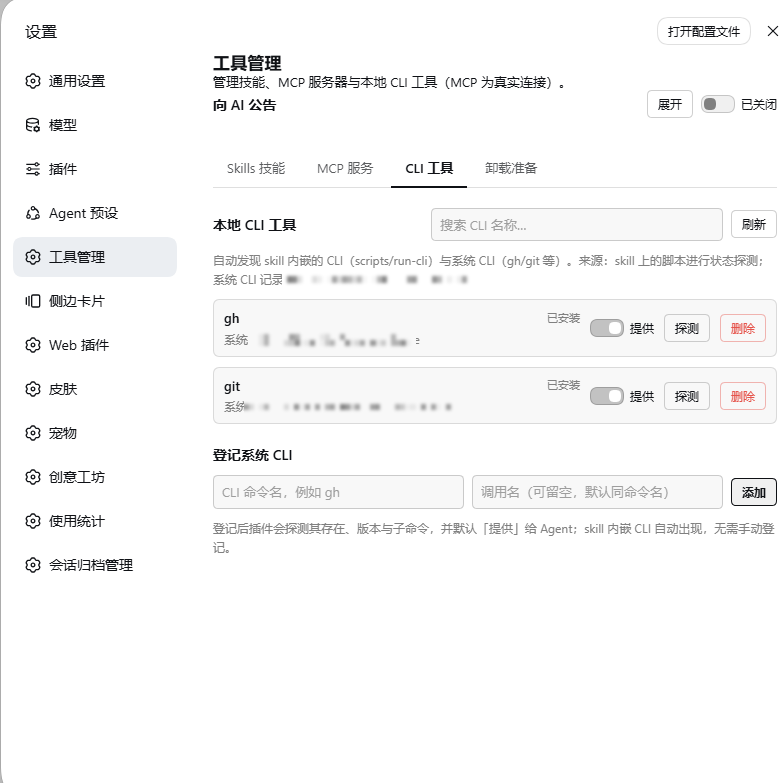
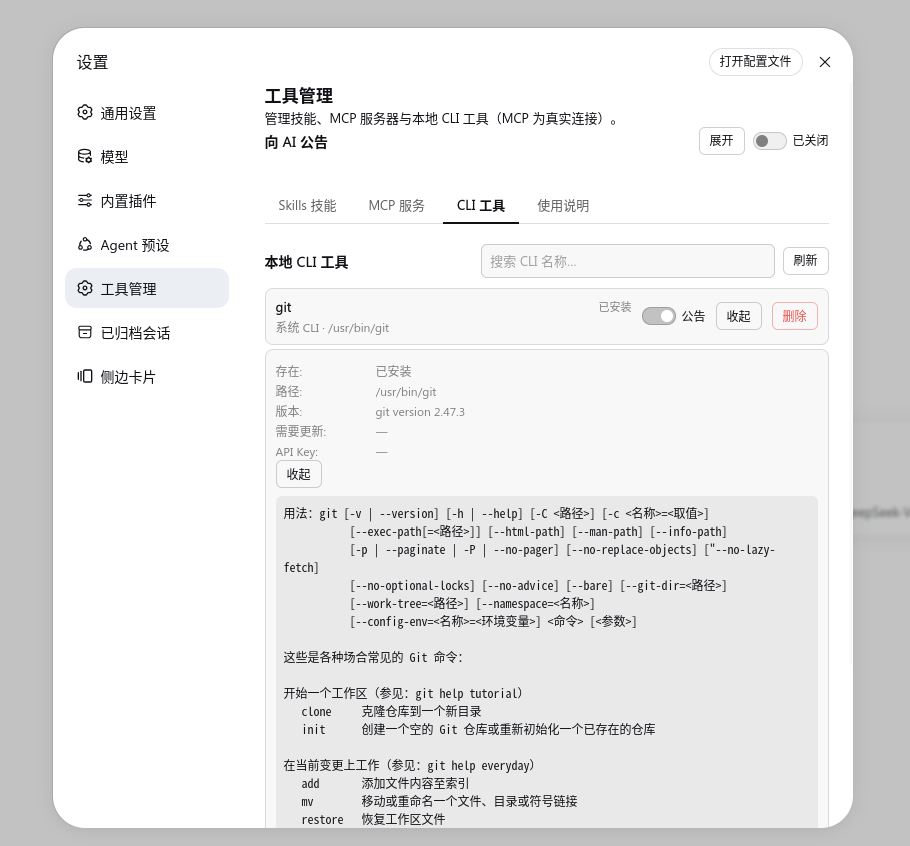
docs(readme): product-page style redesign with fresh redacted screenshots
- centered hero + badge row + anchor nav; two-column screenshot gallery
  (session panel / skills / MCP / CLI / guide) and announce strip
- new capability comparison table (native dsh web vs plugin)
- repository layout folded into <details>; zh/en kept in sync
- screenshots re-shot on 0.1.4: personal skill names, descriptions and
  MCP server names/URLs redacted; generic addresses left visible
- dev section updated to 13 files / 193 tests; install status adds
  0.1.6-alpha.2 as fully tested

Changed region(s): [[0.0, 0.0, 1.0, 1.0], [0.7041, 0.4598, 0.8878, 0.5211]]

diff --git a/README.zh.md b/README.zh.md
@@ -2,8 +2,13 @@
   🌏 <b>中文</b> · <a href="./README.md">English</a>
 </div>
 
+<h1 align="center">三合一工具台 · dsh-s-m-c-center</h1>
+
 <div align="center">
-  <b style="font-size: 1.15em;">一个 DeepSeek Harness (DSH) Web 插件：在同一个设置页里管理「技能 + MCP + CLI」三类 agent 工具，并让每个对话按需注入自己的技能。</b><br /><br />
+  <b>把智能体的「技能 / MCP / CLI」三类工具收进 DeepSeek Harness 的同一张设置页，<br />并让每个对话按需注入自己的技能。</b>
+  <br /><br />
+  <i>技能联接 · 会话注入 · 影子目录 · MCP 真实连接 · CLI 探针 · 中英双语 · 零源码侵入</i>
+  <br /><br />
   <a href="https://github.com/YpipaQ/dsh-s-m-c-center/releases"><img alt="release" src="https://img.shields.io/github/package-json/v/YpipaQ/dsh-s-m-c-center?style=flat-square&amp;label=release&amp;color=fe7d37&amp;labelColor=555" /></a>
   <a href="https://github.com/YpipaQ/dsh-s-m-c-center/stargazers"><img alt="stars" src="https://img.shields.io/github/stars/YpipaQ/dsh-s-m-c-center?style=flat-square&amp;label=stars&amp;color=f0a01e&amp;labelColor=555" /></a>
   <a href="https://github.com/YpipaQ/dsh-s-m-c-center/forks"><img alt="forks" src="https://img.shields.io/github/forks/YpipaQ/dsh-s-m-c-center?style=flat-square&amp;label=forks&amp;color=2b8df5&amp;labelColor=555" /></a>
@@ -12,20 +17,34 @@
   <a href="./LICENSE"><img alt="license: MIT" src="https://img.shields.io/badge/license-MIT-blue.svg?style=flat-square&amp;labelColor=555" /></a>
   <a href="./package.json"><img alt="dsh" src="https://img.shields.io/badge/dsh-%3E%3D0.1.2--alpha.2-4d6bfe?style=flat-square&amp;labelColor=555" /></a>
   <a href="./package.json"><img alt="node" src="https://img.shields.io/node/v/dsh-s-m-c-center?style=flat-square&amp;labelColor=555" /></a>
+  <br /><br />
+  <a href="#-它是什么">它是什么</a> · <a href="#-界面一览">界面一览</a> · <a href="#-功能亮点">功能亮点</a> · <a href="#-两条通道联接-vs-注入">两条通道</a> · <a href="#-交给-agent-的两个工具">Agent 工具</a> · <a href="#-架构">架构</a> · <a href="#-安装">安装</a> · <a href="#-配置">配置</a> · <a href="#-权限与依赖声明">权限声明</a> · <a href="#-仓库结构">仓库结构</a> · <a href="#-开发">开发</a> · <a href="#-许可">许可</a>
+</div>
+
+<br />
+
+<div align="center">
+  <a href="https://raw.githubusercontent.com/YpipaQ/dsh-s-m-c-center/main/docs/shots/shot-skills.png"><img src="https://raw.githubusercontent.com/YpipaQ/dsh-s-m-c-center/main/docs/shots/shot-skills.png" alt="工具管理设置页：Skills 技能页签" width="86%" /></a>
+  <p><i>「设置 → Web UI 插件 → 工具管理」：统一储存库、技能联接与「会话默认」，三个页签分管三类工具。</i></p>
 </div>
 
 > [!NOTE]
 > **0.1.2 起技能目录由本插件接管（影子目录）**：目录成员严格跟随会话的注入选择；目录变化只发一条替换帧，不再每步追加；容器目录（只有 DESCRIPTION.md）可注入、可加载。已经过三轮外部实测（16/16 通过）。
 
-# 三合一工具台 · dsh-s-m-c-center
-
-> 中文名：**三合一工具台** ｜ 界面入口：「Web UI 插件 → 工具管理」 ｜ 别名：工具管理、工具中心、技能管理、MCP 服务器管理、CLI 工具管理、Skills / MCP / CLI 管理器
-
-> 一个自包含的 DSH Web 插件：在设置页新增一个一级页面，统一管理 agent 的**三类工具**（技能 / MCP 服务器 / 本地 CLI），并新增一层**按对话生效的技能注入**；另有一个使用说明页，讲清三者各自的工作方式，并在最下方负责把它们干净地还回去。
->
-> 仅通过 profile bundle patch + 包安装挂载 —— **不改任何 DeepSeek Harness 源码**。
-
 ## ✨ 它是什么
+
+> 中文别名：**三合一工具台** ｜ 别名：工具管理、工具中心、技能管理、MCP 服务器管理、CLI 工具管理、Skills / MCP / CLI 管理器
+
+一个自包含的 DSH Web 插件：在设置页新增一个一级页面，统一管理 agent 的**三类工具**（技能 / MCP 服务器 / 本地 CLI），并新增一层**按对话生效的技能注入**；另有一个使用说明页，讲清三者各自的工作方式，并在最下方负责把它们干净地还回去。
+
+| 能力 | 原生 dsh web | 装上本插件后 |
+|---|---|---|
+| 技能浏览 / 启停 | 到技能目录手动增删 | 设置页一键联接 / 断开，正本统一入库，`SKILL.md` 一字不改 |
+| 会话级技能组合 | — | 会话默认 + 侧边栏小窗 + `skill_select`，每个对话只存与默认的差异 |
+| 技能目录（AI 视角） | 静态目录扫描 | **影子目录**：严格跟随会话选区，附 `smc-skill-index` 索引行 |
+| MCP 服务器 | 手编 `mcp.json` | 表单 / JSON 新建 + 一次性测试连接 + 激活 / 归档开关 |
+| 本地 CLI | — | 自动发现 skill 内嵌 CLI，登记系统 CLI，探测安装 / 版本 / 子命令 / API-Key |
+| 侵入性 | — | **零源码改动**：一个 npm 包 + 一行 profile bundle patch |
 
 | 页签 | 管理 | 底层 |
 |---|---|---|
@@ -36,11 +55,22 @@
 
 > 完整说明见 [`docs/功能介绍.md`](./docs/功能介绍.md)、[`docs/架构.md`](./docs/架构.md)。
 
-## 💡 功能
+## 📷 界面一览
+
+| | |
+|---|---|
+| **会话技能小窗** ｜ 侧边栏随手调整本对话的注入 | **MCP 服务** ｜ 真实连接，激活 / 归档一键切换 |
+| <a href="https://raw.githubusercontent.com/YpipaQ/dsh-s-m-c-center/main/docs/shots/shot-session.png"><img src="https://raw.githubusercontent.com/YpipaQ/dsh-s-m-c-center/main/docs/shots/shot-session.png" alt="侧边栏「会话技能」小窗" width="98%" /></a> | <a href="https://raw.githubusercontent.com/YpipaQ/dsh-s-m-c-center/main/docs/shots/shot-mcp.png"><img src="https://raw.githubusercontent.com/YpipaQ/dsh-s-m-c-center/main/docs/shots/shot-mcp.png" alt="MCP 服务页签" width="98%" /></a> |
+| **CLI 工具** ｜ 发现 / 探测 / 登记本地 CLI | **使用说明** ｜ 三类工具讲解 + 卸载撤退口 |
+| <a href="https://raw.githubusercontent.com/YpipaQ/dsh-s-m-c-center/main/docs/shots/shot-cli.png"><img src="https://raw.githubusercontent.com/YpipaQ/dsh-s-m-c-center/main/docs/shots/shot-cli.png" alt="CLI 工具页签" width="98%" /></a> | <a href="https://raw.githubusercontent.com/YpipaQ/dsh-s-m-c-center/main/docs/shots/shot-guide.png"><img src="https://raw.githubusercontent.com/YpipaQ/dsh-s-m-c-center/main/docs/shots/shot-guide.png" alt="使用说明页签" width="98%" /></a> |
+
+<p align="center"><i>截图中的技能名、描述与 MCP 服务器信息已打码。</i></p>
+
+## 💡 功能亮点
 
 - **技能**：按项目级 / 用户级与来源分组（`.dsh/skills`、`.agents/skills`、`~/.dsh/skills`、`~/.agents/skills`）。用户级技能迁入**统一储存库** `~/.dsh/S-M-C/skills`，「启用」= 在技能根目录注入目录联接，「不启用」= 移除联接（`SKILL.md` 一字不改）；项目级技能就地管理，仍用前言开关。删除为两步确认的物理删除，且**只删储存库里的正本**（见下）。点开可看详情（description / whenToUse / 正文）；支持从任意目录扫描导入。
 - **会话默认与按对话注入**：`会话默认` 是新对话的起始技能；每个对话还能有自己的差异（关掉某个、追加某个）。对话里的 agent 可以自己开关（写入该对话自己的配置），侧边栏还有一个「会话技能」小窗供你随时手动调整——两处列表都只列**已联接**的技能。详见下一节。
-- **MCP**：分「管理 / 新建」两个子页——管理页一台服务器一个 **激活 / 归档** 开关（外加删除），新建页提供表单或 JSON 编辑，保存前可**测试连接**（一次性真实探测）；**激活 / 归档**真实连接 / 断开并注册 `mcp__<server>__<tool>` 工具；实时状态（连接中 / 运行中 / 失败 / 已停止）。
+- **MCP**：分「管理 / 新建」两个子页——管理页一台服务器一个 **激活 / 归档** 开关（外加删除），新建页提供表单或 JSON 编辑，保存前可**测试连接**（一次性真实探测）；激活 / 归档真实连接 / 断开并注册 `mcp__<server>__<tool>` 工具；实时状态（连接中 / 运行中 / 失败 / 已停止）。
 - **CLI**：自动发现 skill 包装的 CLI（`scripts/run-cli.*` / `cli-state.*`），并登记系统 CLI（`gh`、`git` …，存于 `S-M-C/cli.json`）。每条都会探测：是否安装 / 版本 / 是否需更新 / API-Key 状态 / 子命令，并在行上标出来源与位置。**公告 / 隐藏**开关只决定是否把这个 CLI 写进给 AI 的公告（插件无法启停系统装的 CLI，因此默认隐藏）。
 - **使用说明**：按三类讲清工作方式，最下方是卸载前的总撤退口。「撤销迁移」把储存库技能移回原始位置；储存库空着时同一按钮变为绿色的「迁移」，**双向可逆**；「MCP 全部注入」把归档服务器一次性移回并重连；页面同时列出卸载后需手动删除的目录与配置块。
 - **界面**：全量文案 zh / en 双语（各 200 键，英文环境零中文）；破坏性操作两步确认，且点开别处即复位。
@@ -56,17 +86,6 @@
 
 **会话选择的存储方式**：文件里存的是**与默认的差异**（`overrides: { on, off }`），有效集合 = `默认 ∪ on \ off`。这样改了默认，未单独配置过的对话立刻跟着变；而你在某个对话里手动关掉的技能不会被默认拉回来。
 
-## 📷 界面预览
-
-<div align="center">
-  <img src="https://raw.githubusercontent.com/YpipaQ/dsh-s-m-c-center/main/docs/shots/shot-skills.png" alt="Skills 技能" width="49%" />
-  <img src="https://raw.githubusercontent.com/YpipaQ/dsh-s-m-c-center/main/docs/shots/shot-mcp.png" alt="MCP 服务" width="49%" />
-  <br />
-  <img src="https://raw.githubusercontent.com/YpipaQ/dsh-s-m-c-center/main/docs/shots/shot-cli.png" alt="CLI 工具" width="49%" />
-  <img src="https://raw.githubusercontent.com/YpipaQ/dsh-s-m-c-center/main/docs/shots/shot-guide.png" alt="使用说明" width="49%" />
-</div>
-<p align="center"><i>四个页签：技能（统一储存库 + 联接 + 会话默认）、MCP（真实连接）、CLI（发现 / 探测 / 登记）、使用说明。个人路径已打码。</i></p>
-
 ## 🤖 交给 agent 的两个工具
 
 | 工具 | 作用 |
@@ -74,7 +93,14 @@
 | `skill_select` | 为**本对话**启用 / 停用某个技能；写入该对话自己的差异并立即生效。接受所有已联接的条目——容器目录同样可以（其 DESCRIPTION.md 即可加载的正文）。 |
 | `skill_query` | **只读**查询本工作区可见的技能清单（名称 / 描述 / 分组 / 是否已联接 / 本对话是否已注入），调用时动态计算，可关键词与分组过滤。 |
 
-此外，「使用说明」页可开启**向 AI 公告**：把插件能力与三类工具的现状写进每个 agent 的系统提示。技能目录也由本插件生成（影子目录）：目录里会多出一行 `smc-skill-index` —— **索引技能**，加载它即可拿到本工作区的完整技能列表（格式与目录层一致）；未注入的技能不能加载（提示 "not enabled in this conversation"）；`/技能名` 手势不受影响。
+技能目录也由本插件生成（**影子目录**）：目录里会多出一行 `smc-skill-index` —— **索引技能**，加载它即可拿到本工作区的完整技能列表（格式与目录层一致）；未注入的技能不能加载（提示 "not enabled in this conversation"）；`/技能名` 手势不受影响。
+
+此外，「使用说明」页可开启**向 AI 公告**：把插件能力与三类工具的现状写进每个 agent 的系统提示——
+
+<div align="center">
+  <a href="https://raw.githubusercontent.com/YpipaQ/dsh-s-m-c-center/main/docs/shots/shot-announce.png"><img src="https://raw.githubusercontent.com/YpipaQ/dsh-s-m-c-center/main/docs/shots/shot-announce.png" alt="向 AI 公告" width="72%" /></a>
+  <p><i>向 AI 公告：展开后声明插件能力；设置持久化在 <code>dsh-s-m-c-center</code> 命名空间，切换即时生效。</i></p>
+</div>
 
 ## 🏗 架构
 
@@ -102,7 +128,7 @@
 ## 🚀 安装
 
 > **环境要求**：DeepSeek Harness **`>= 0.1.2-alpha.2`**（`@deepseek-ai/*` 统一发版）；Node `^22.19.0 || >=24`。
-> 现状：**`0.1.6-alpha.1` 与 `0.1.5-rc.2` 上完整实测**；`0.1.2-alpha.2` 起所用 API 已逐一核对存在且签名一致。
+> 现状：**`0.1.6-alpha.1`、`0.1.6-alpha.2` 与 `0.1.5-rc.2` 上完整实测**；`0.1.2-alpha.2` 起所用 API 已逐一核对存在且签名一致。
 
 > **必须按普通包安装 —— 切勿 junction 链接。** junction 会让依赖（`schemastery` / `react` 等）无法向上解析，并导致包名与 `cordis.patch.yml` 不一致；两者都会让 DSH 启动失败。
 
@@ -159,9 +185,10 @@ dsh-s-m-c-center:
 
 **已知风险**：技能删除是物理删除、不可恢复（且**只删储存库正本**：`native` 技能需先「迁移入库」，`registered` 用「取消登记」，「删除联接」只解联、从不删目标）；MCP 凭证明文保存；技能启用 / 禁用经目录联接生效，手动剪切储存库会让联接失效（需要时用 `DSH_STORE_ROOT` 搬迁，插件会自建联接）。
 
-## 🗂 仓库结构
+<details>
+<summary><b>📦 展开查看仓库结构</b></summary>
 
-```
+```text
 dsh-s-m-c-center/
 ├── src/
 │   ├── index.ts            # 宿主组合根（挂载、设置、公告、工具注册）
@@ -195,9 +222,11 @@ dsh-s-m-c-center/
 └── scripts/install.*       # 一键安装进 DSH profile
 ```
 
-## 🛠 开发
+</details>
 
-见 [`docs/development.md`](./docs/development.md)：双半区构建（`tsdown` 重建 `lib/index.js` + `lib/client.js`）、类型检查（`tsc --noEmit`）与测试套件（`vitest`，13 个文件 / 191 个用例）。
+## 🧰 开发
+
+见 [`docs/development.md`](./docs/development.md)：双半区构建（`tsdown` 重建 `lib/index.js` + `lib/client.js`）、类型检查（`tsc --noEmit`）与测试套件（`vitest`，13 个文件 / 193 个用例）。
 
 ## 📄 许可
 

diff --git a/README.md b/README.md
@@ -2,8 +2,13 @@
   🌏 <a href="./README.zh.md">中文</a> · <b>English</b>
 </div>
 
+<h1 align="center">Three-in-One Console · dsh-s-m-c-center</h1>
+
 <div align="center">
-  <b style="font-size: 1.15em;">A DeepSeek Harness (DSH) web plugin: manage agent skills, MCP servers and local CLI tools from one settings page — and inject skills per conversation.</b><br /><br />
+  <b>One DeepSeek Harness (DSH) settings page for the agent's three kinds of tools —<br />skills, MCP servers and local CLIs — plus per-conversation skill injection.</b>
+  <br /><br />
+  <i>Skill linking · Session injection · Shadow catalog · Real MCP connections · CLI probes · Bilingual · Zero source patching</i>
+  <br /><br />
   <a href="https://github.com/YpipaQ/dsh-s-m-c-center/releases"><img alt="release" src="https://img.shields.io/github/package-json/v/YpipaQ/dsh-s-m-c-center?style=flat-square&amp;label=release&amp;color=fe7d37&amp;labelColor=555" /></a>
   <a href="https://github.com/YpipaQ/dsh-s-m-c-center/stargazers"><img alt="stars" src="https://img.shields.io/github/stars/YpipaQ/dsh-s-m-c-center?style=flat-square&amp;label=stars&amp;color=f0a01e&amp;labelColor=555" /></a>
   <a href="https://github.com/YpipaQ/dsh-s-m-c-center/forks"><img alt="forks" src="https://img.shields.io/github/forks/YpipaQ/dsh-s-m-c-center?style=flat-square&amp;label=forks&amp;color=2b8df5&amp;labelColor=555" /></a>
@@ -12,20 +17,34 @@
   <a href="./LICENSE"><img alt="license: MIT" src="https://img.shields.io/badge/license-MIT-blue.svg?style=flat-square&amp;labelColor=555" /></a>
   <a href="./package.json"><img alt="dsh" src="https://img.shields.io/badge/dsh-%3E%3D0.1.2--alpha.2-4d6bfe?style=flat-square&amp;labelColor=555" /></a>
   <a href="./package.json"><img alt="node" src="https://img.shields.io/node/v/dsh-s-m-c-center?style=flat-square&amp;labelColor=555" /></a>
+  <br /><br />
+  <a href="#-what-it-is">What it is</a> · <a href="#-screenshots">Screenshots</a> · <a href="#-features">Features</a> · <a href="#-two-channels-linking-vs-injection">Two channels</a> · <a href="#-two-tools-for-the-agent">Agent tools</a> · <a href="#-architecture">Architecture</a> · <a href="#-install">Install</a> · <a href="#-configuration">Configuration</a> · <a href="#-permissions-and-dependency-disclosure">Permissions</a> · <a href="#-repository-layout">Repository</a> · <a href="#-development">Development</a> · <a href="#-license">License</a>
+</div>
+
+<br />
+
+<div align="center">
+  <a href="https://raw.githubusercontent.com/YpipaQ/dsh-s-m-c-center/main/docs/shots/shot-skills.png"><img src="https://raw.githubusercontent.com/YpipaQ/dsh-s-m-c-center/main/docs/shots/shot-skills.png" alt="Tool manager settings page: Skills tab" width="86%" /></a>
+  <p><i>Settings → Web UI plugins → Tool manager: the unified store, skill linking and the session default, with one tab per tool family.</i></p>
 </div>
 
 > [!NOTE]
 > **As of 0.1.2 the skill catalog is served by this plugin (shadow catalog)**: catalog membership follows the conversation's injection selection exactly; a catalog change publishes one replacement frame instead of re-appending every step; container directories (DESCRIPTION.md only) are injectable and loadable. Verified by a three-round external test run (16/16 pass).
 
-# 三合一工具台 · dsh-s-m-c-center
+## ✨ What it is
 
 > Chinese name: **三合一工具台** (three-in-one console) ｜ UI entry: Settings → Web UI Plugins → Tool Manager ｜ Aliases: 工具管理, 工具中心, 技能管理, MCP 服务器管理, CLI 工具管理, Skills / MCP / CLI manager
 
-> A self-contained DSH web plugin: it adds one first-class **settings page** for the agent's **three kinds of tool** (skills / MCP servers / local CLI tools), plus a **per-conversation skill injection layer**; a guide tab explains how each of the three works and, at the bottom, hands everything back cleanly on uninstall.
->
-> Mounted purely as a profile bundle patch + package — **no DeepSeek Harness source changes**.
+A self-contained DSH web plugin: it adds one first-class **settings page** for the agent's **three kinds of tool** (skills / MCP servers / local CLI tools), plus a **per-conversation skill injection layer**; a guide tab explains how each of the three works and, at the bottom, hands everything back cleanly on uninstall.
 
-## ✨ What it is
+| Capability | Native dsh web | With this plugin |
+|---|---|---|
+| Skill browsing / toggling | Edit skill directories by hand | One-click linking / unlinking in the settings page; canonical copies go into the store; `SKILL.md` is never touched |
+| Per-conversation skill sets | — | Session default + sidebar panel + `skill_select`; each conversation stores only its difference from the default |
+| Skill catalog (AI view) | Static directory scan | **Shadow catalog**: follows the conversation selection exactly, with one `smc-skill-index` index row |
+| MCP servers | Hand-edit `mcp.json` | Form / JSON creation + one-off connection test + activate / archive switches |
+| Local CLIs | — | Auto-discovery of skill-wrapped CLIs, system CLI registry, probes for installed / version / subcommands / API key |
+| Intrusiveness | — | **Zero source changes**: one npm package + one profile bundle patch line |
 
 | Tab | Manages | Under the hood |
 |---|---|---|
@@ -35,6 +54,17 @@
 | **Guide** | How each of the three kinds works, and what to do before uninstalling | Explanation lives here; the uninstall preparation sits at the bottom |
 
 > Full documentation: [`docs/功能介绍.md`](./docs/功能介绍.md) and [`docs/架构.md`](./docs/架构.md) (Chinese).
+
+## 📷 Screenshots
+
+| | |
+|---|---|
+| **Conversation skills panel** ｜ adjust this conversation's injection from the sidebar | **MCP servers** ｜ real connections, one activate / archive switch each |
+| <a href="https://raw.githubusercontent.com/YpipaQ/dsh-s-m-c-center/main/docs/shots/shot-session.png"><img src="https://raw.githubusercontent.com/YpipaQ/dsh-s-m-c-center/main/docs/shots/shot-session.png" alt="Sidebar conversation skills panel" width="98%" /></a> | <a href="https://raw.githubusercontent.com/YpipaQ/dsh-s-m-c-center/main/docs/shots/shot-mcp.png"><img src="https://raw.githubusercontent.com/YpipaQ/dsh-s-m-c-center/main/docs/shots/shot-mcp.png" alt="MCP servers tab" width="98%" /></a> |
+| **CLI tools** ｜ discover / probe / register local CLIs | **Guide** ｜ how the three kinds work + uninstall escape hatch |
+| <a href="https://raw.githubusercontent.com/YpipaQ/dsh-s-m-c-center/main/docs/shots/shot-cli.png"><img src="https://raw.githubusercontent.com/YpipaQ/dsh-s-m-c-center/main/docs/shots/shot-cli.png" alt="CLI tools tab" width="98%" /></a> | <a href="https://raw.githubusercontent.com/YpipaQ/dsh-s-m-c-center/main/docs/shots/shot-guide.png"><img src="https://raw.githubusercontent.com/YpipaQ/dsh-s-m-c-center/main/docs/shots/shot-guide.png" alt="Guide tab" width="98%" /></a> |
+
+<p align="center"><i>Skill names, descriptions and MCP server details are redacted in the screenshots.</i></p>
 
 ## 💡 Features
 
@@ -56,17 +86,6 @@
 
 **How a conversation stores its choice**: the file keeps the **difference from the default** (`overrides: { on, off }`), and the effective set is `default ∪ on \ off`. Editing the default therefore reaches every conversation that never configured itself, while a skill you turned off in one conversation stays off.
 
-## 📷 Screenshots
-
-<div align="center">
-  <img src="https://raw.githubusercontent.com/YpipaQ/dsh-s-m-c-center/main/docs/shots/shot-skills.png" alt="Skills" width="49%" />
-  <img src="https://raw.githubusercontent.com/YpipaQ/dsh-s-m-c-center/main/docs/shots/shot-mcp.png" alt="MCP servers" width="49%" />
-  <br />
-  <img src="https://raw.githubusercontent.com/YpipaQ/dsh-s-m-c-center/main/docs/shots/shot-cli.png" alt="CLI tools" width="49%" />
-  <img src="https://raw.githubusercontent.com/YpipaQ/dsh-s-m-c-center/main/docs/shots/shot-guide.png" alt="Guide" width="49%" />
-</div>
-<p align="center"><i>The four tabs: skills (unified store + junctions + session default), MCP (real connections), CLI (discover / probe / register), guide. Personal paths are redacted.</i></p>
-
 ## 🤖 Two tools for the agent
 
 | Tool | What it does |
@@ -74,9 +93,16 @@
 | `skill_select` | Enable or disable one skill for **this conversation**; writes the conversation's own difference and applies immediately. Accepts every linked row — container directories too (their DESCRIPTION.md is the loadable body). |
 | `skill_query` | **Read-only** view of the skills visible in this workspace (name / description / group / linked? / injected in this conversation?), computed at call time, with keyword and group filters. |
 
-The guide tab can also switch on **announce to agent**, which describes the plugin and the current state of all three tool families in every agent's system prompt. The plugin also **serves the skill catalog itself** (shadow catalog): the catalog the AI sees is generated here and carries one extra line, `smc-skill-index` — an **index skill** whose body is the complete list of this workspace's skills in the catalog's own shape. Skills that are not injected cannot be loaded ("not enabled in this conversation"); the `/skill-name` gesture is unaffected.
+The skill catalog itself is also served by this plugin (**shadow catalog**): the catalog the AI sees is generated here and carries one extra line, `smc-skill-index` — an **index skill** whose body is the complete list of this workspace's skills in the catalog's own shape. Skills that are not injected cannot be loaded ("not enabled in this conversation"); the `/skill-name` gesture is unaffected.
 
-## 🏗 Architecture
+The guide tab can also switch on **announce to agent**, which describes the plugin and the current state of all three tool families in every agent's system prompt —
+
+<div align="center">
+  <a href="https://raw.githubusercontent.com/YpipaQ/dsh-s-m-c-center/main/docs/shots/shot-announce.png"><img src="https://raw.githubusercontent.com/YpipaQ/dsh-s-m-c-center/main/docs/shots/shot-announce.png" alt="Announce to agent" width="72%" /></a>
+  <p><i>Announce to agent: expanded, it declares the plugin's capabilities; the setting persists in the <code>dsh-s-m-c-center</code> namespace and applies immediately.</i></p>
+</div>
+
+## 🧱 Architecture
 
 **Mounting and the dual-face structure** — the plugin is one npm package plus one profile bundle patch; dsh source is untouched:
 
@@ -102,7 +128,7 @@ The guide tab can also switch on **announce to agent**, which describes the plug
 ## 🚀 Install
 
 > **Requirements**: DeepSeek Harness **`>= 0.1.2-alpha.2`** (all `@deepseek-ai/*` packages release together); Node `^22.19.0 || >=24`.
-> Status: **fully tested on `0.1.6-alpha.1` and `0.1.5-rc.2`**; every API used has been checked for existence and signature since `0.1.2-alpha.2`.
+> Status: **fully tested on `0.1.6-alpha.1`, `0.1.6-alpha.2` and `0.1.5-rc.2`**; every API used has been checked for existence and signature since `0.1.2-alpha.2`.
 
 > **Install it as a normal package — never as a junction.** A junction breaks resolution of dependencies (`schemastery` / `react` and friends) and makes the package name disagree with `cordis.patch.yml`; either one stops DSH from starting.
 
@@ -159,9 +185,10 @@ The plugin runs with the DSH process's privileges and uses four kinds of capabil
 
 **Known risks**: skill deletion is physical and irreversible (and **only the store's copy is ever deleted**: a `native` skill must be migrated into the store first, a `registered` one is unregistered, and "delete junction" only unlinks and never touches its target); MCP credentials are stored in plain text; enabling / disabling a skill works through a directory junction, so moving the store by hand breaks the junctions (use `DSH_STORE_ROOT` instead and the plugin rebuilds them).
 
-## 🗂 Repository layout
+<details>
+<summary><b>🗂 Expand repository layout</b></summary>
 
-```
+```text
 dsh-s-m-c-center/
 ├── src/
 │   ├── index.ts            # host composition root (mount, settings, announcement, tools)
@@ -195,9 +222,11 @@ dsh-s-m-c-center/
 └── scripts/install.*       # one-shot installers into a DSH profile
 ```
 
-## 🛠 Development
+</details>
 
-See [`docs/development.md`](./docs/development.md): dual-half builds (`tsdown` rebuilds `lib/index.js` + `lib/client.js`), type checking (`tsc --noEmit`) and the test suite (`vitest`, 13 files / 191 cases).
+## 🧰 Development
+
+See [`docs/development.md`](./docs/development.md): dual-half builds (`tsdown` rebuilds `lib/index.js` + `lib/client.js`), type checking (`tsc --noEmit`) and the test suite (`vitest`, 13 files / 193 cases).
 
 ## 📄 License
 
